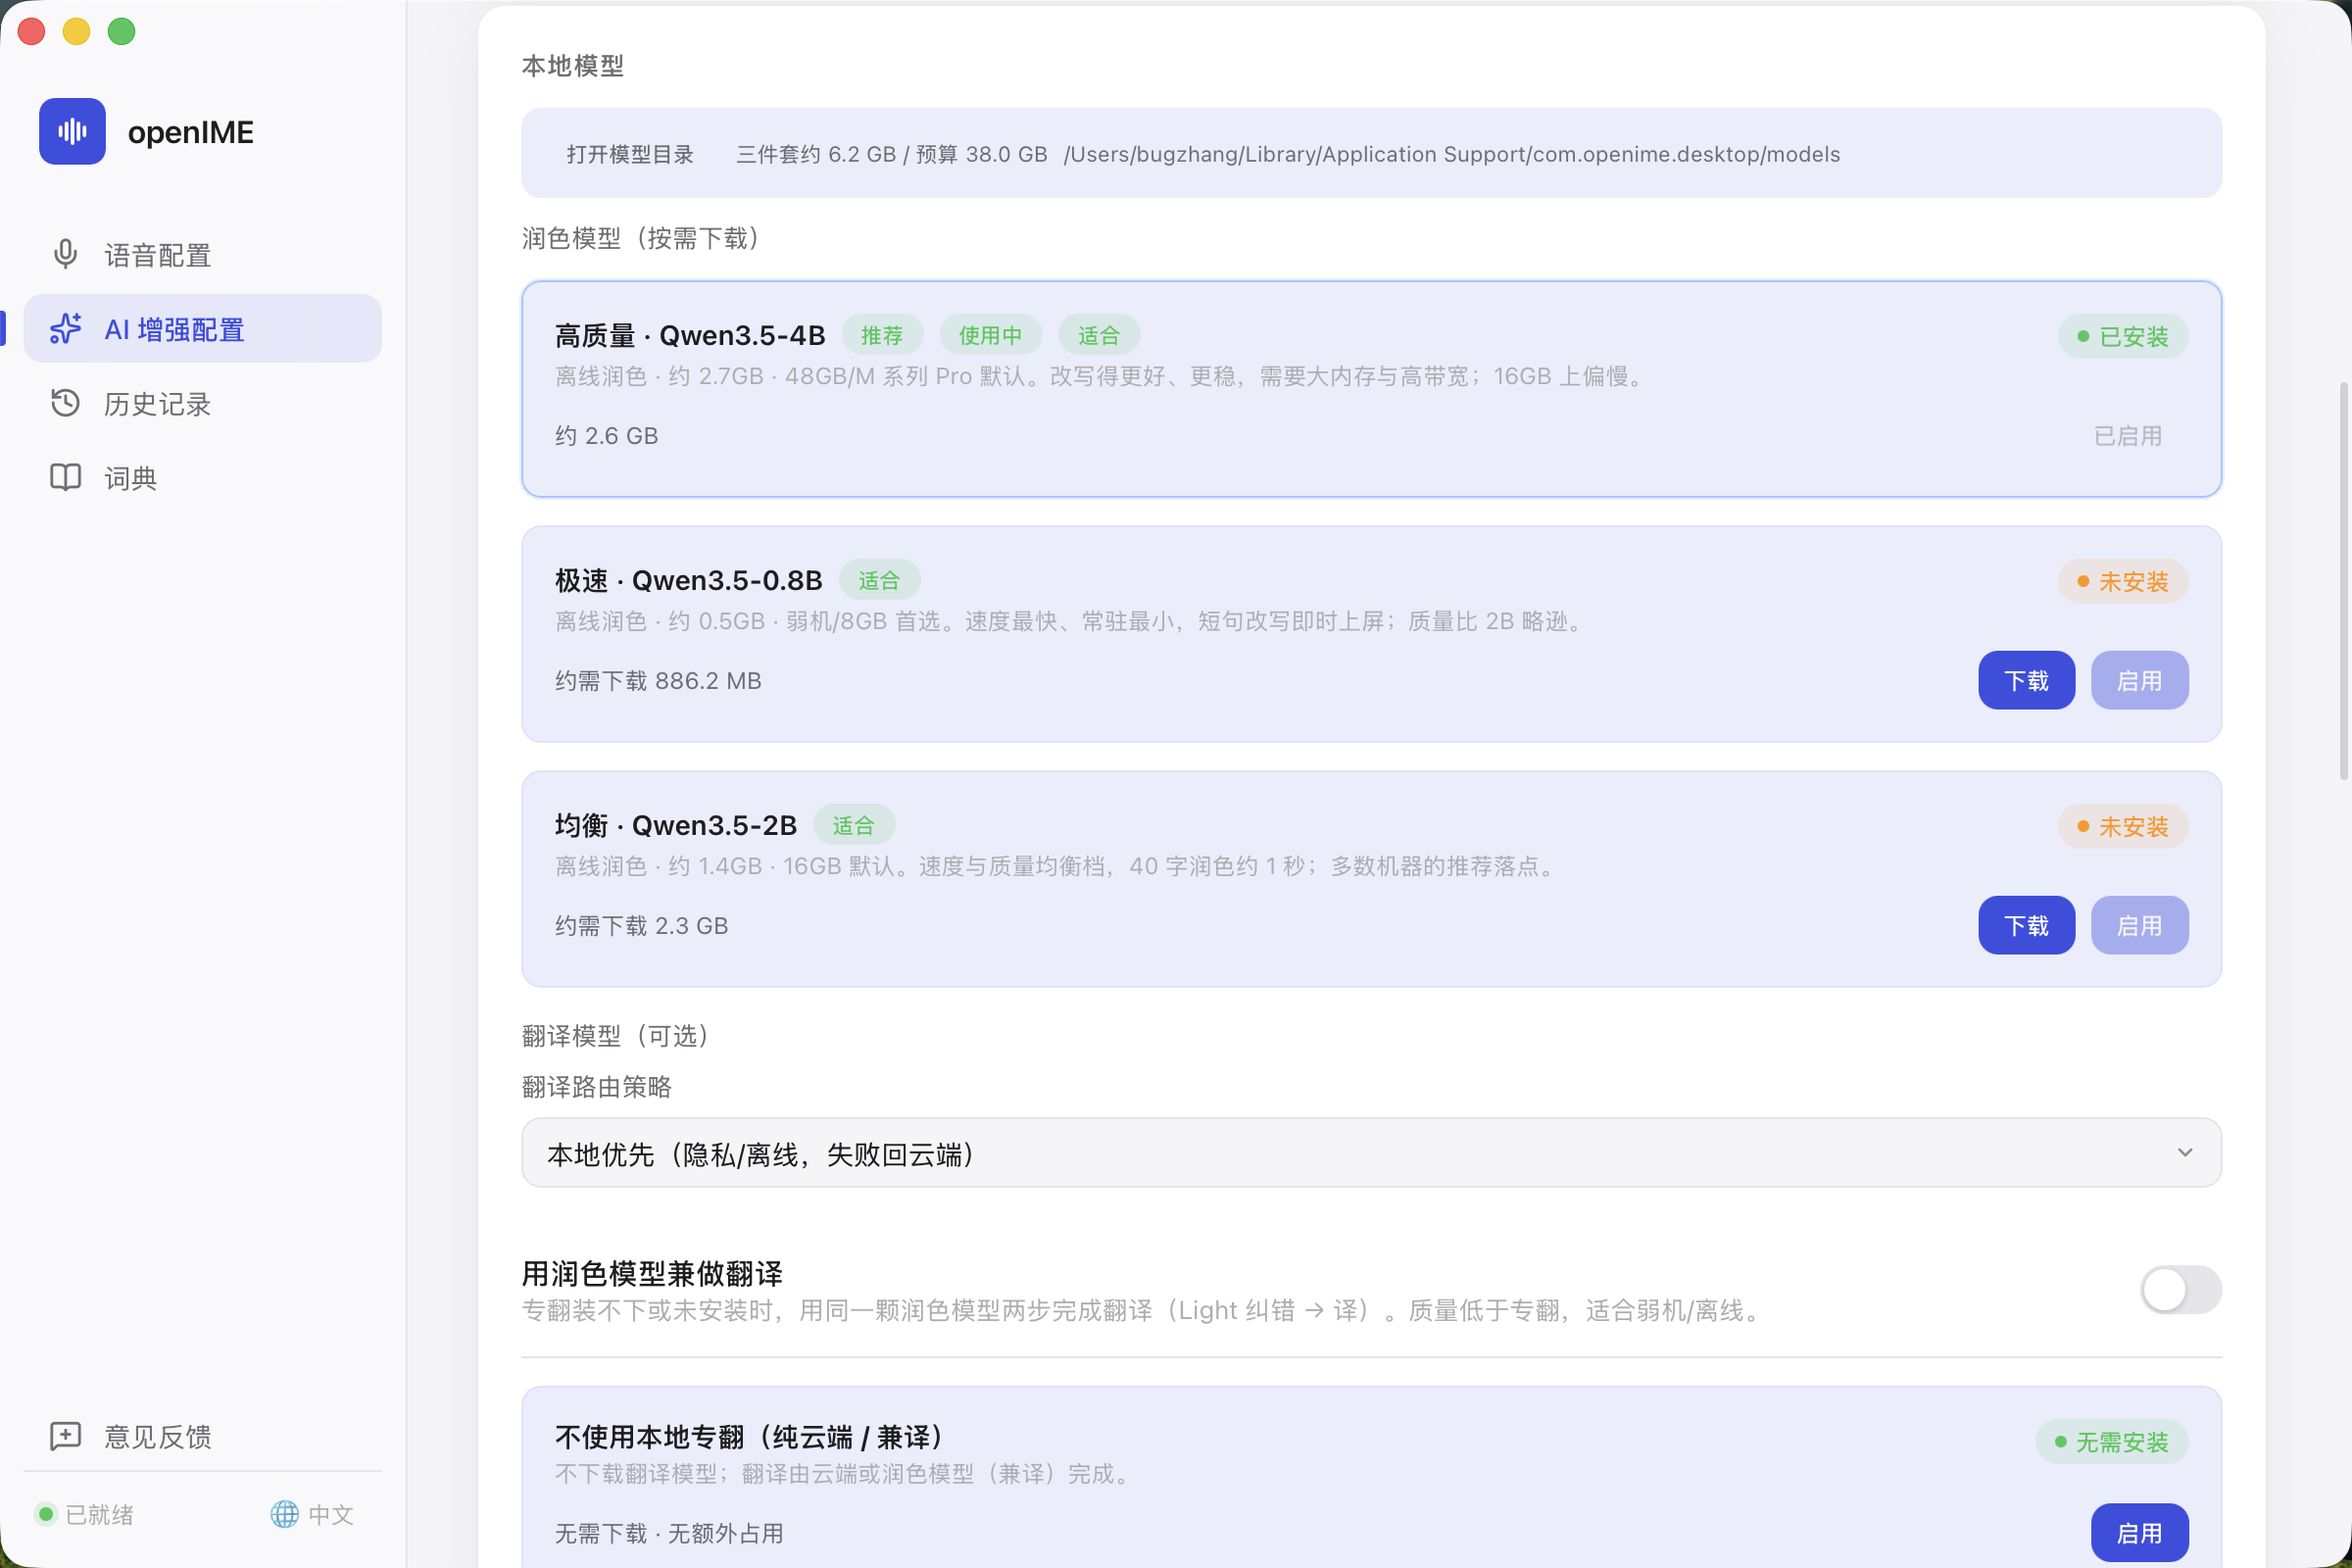
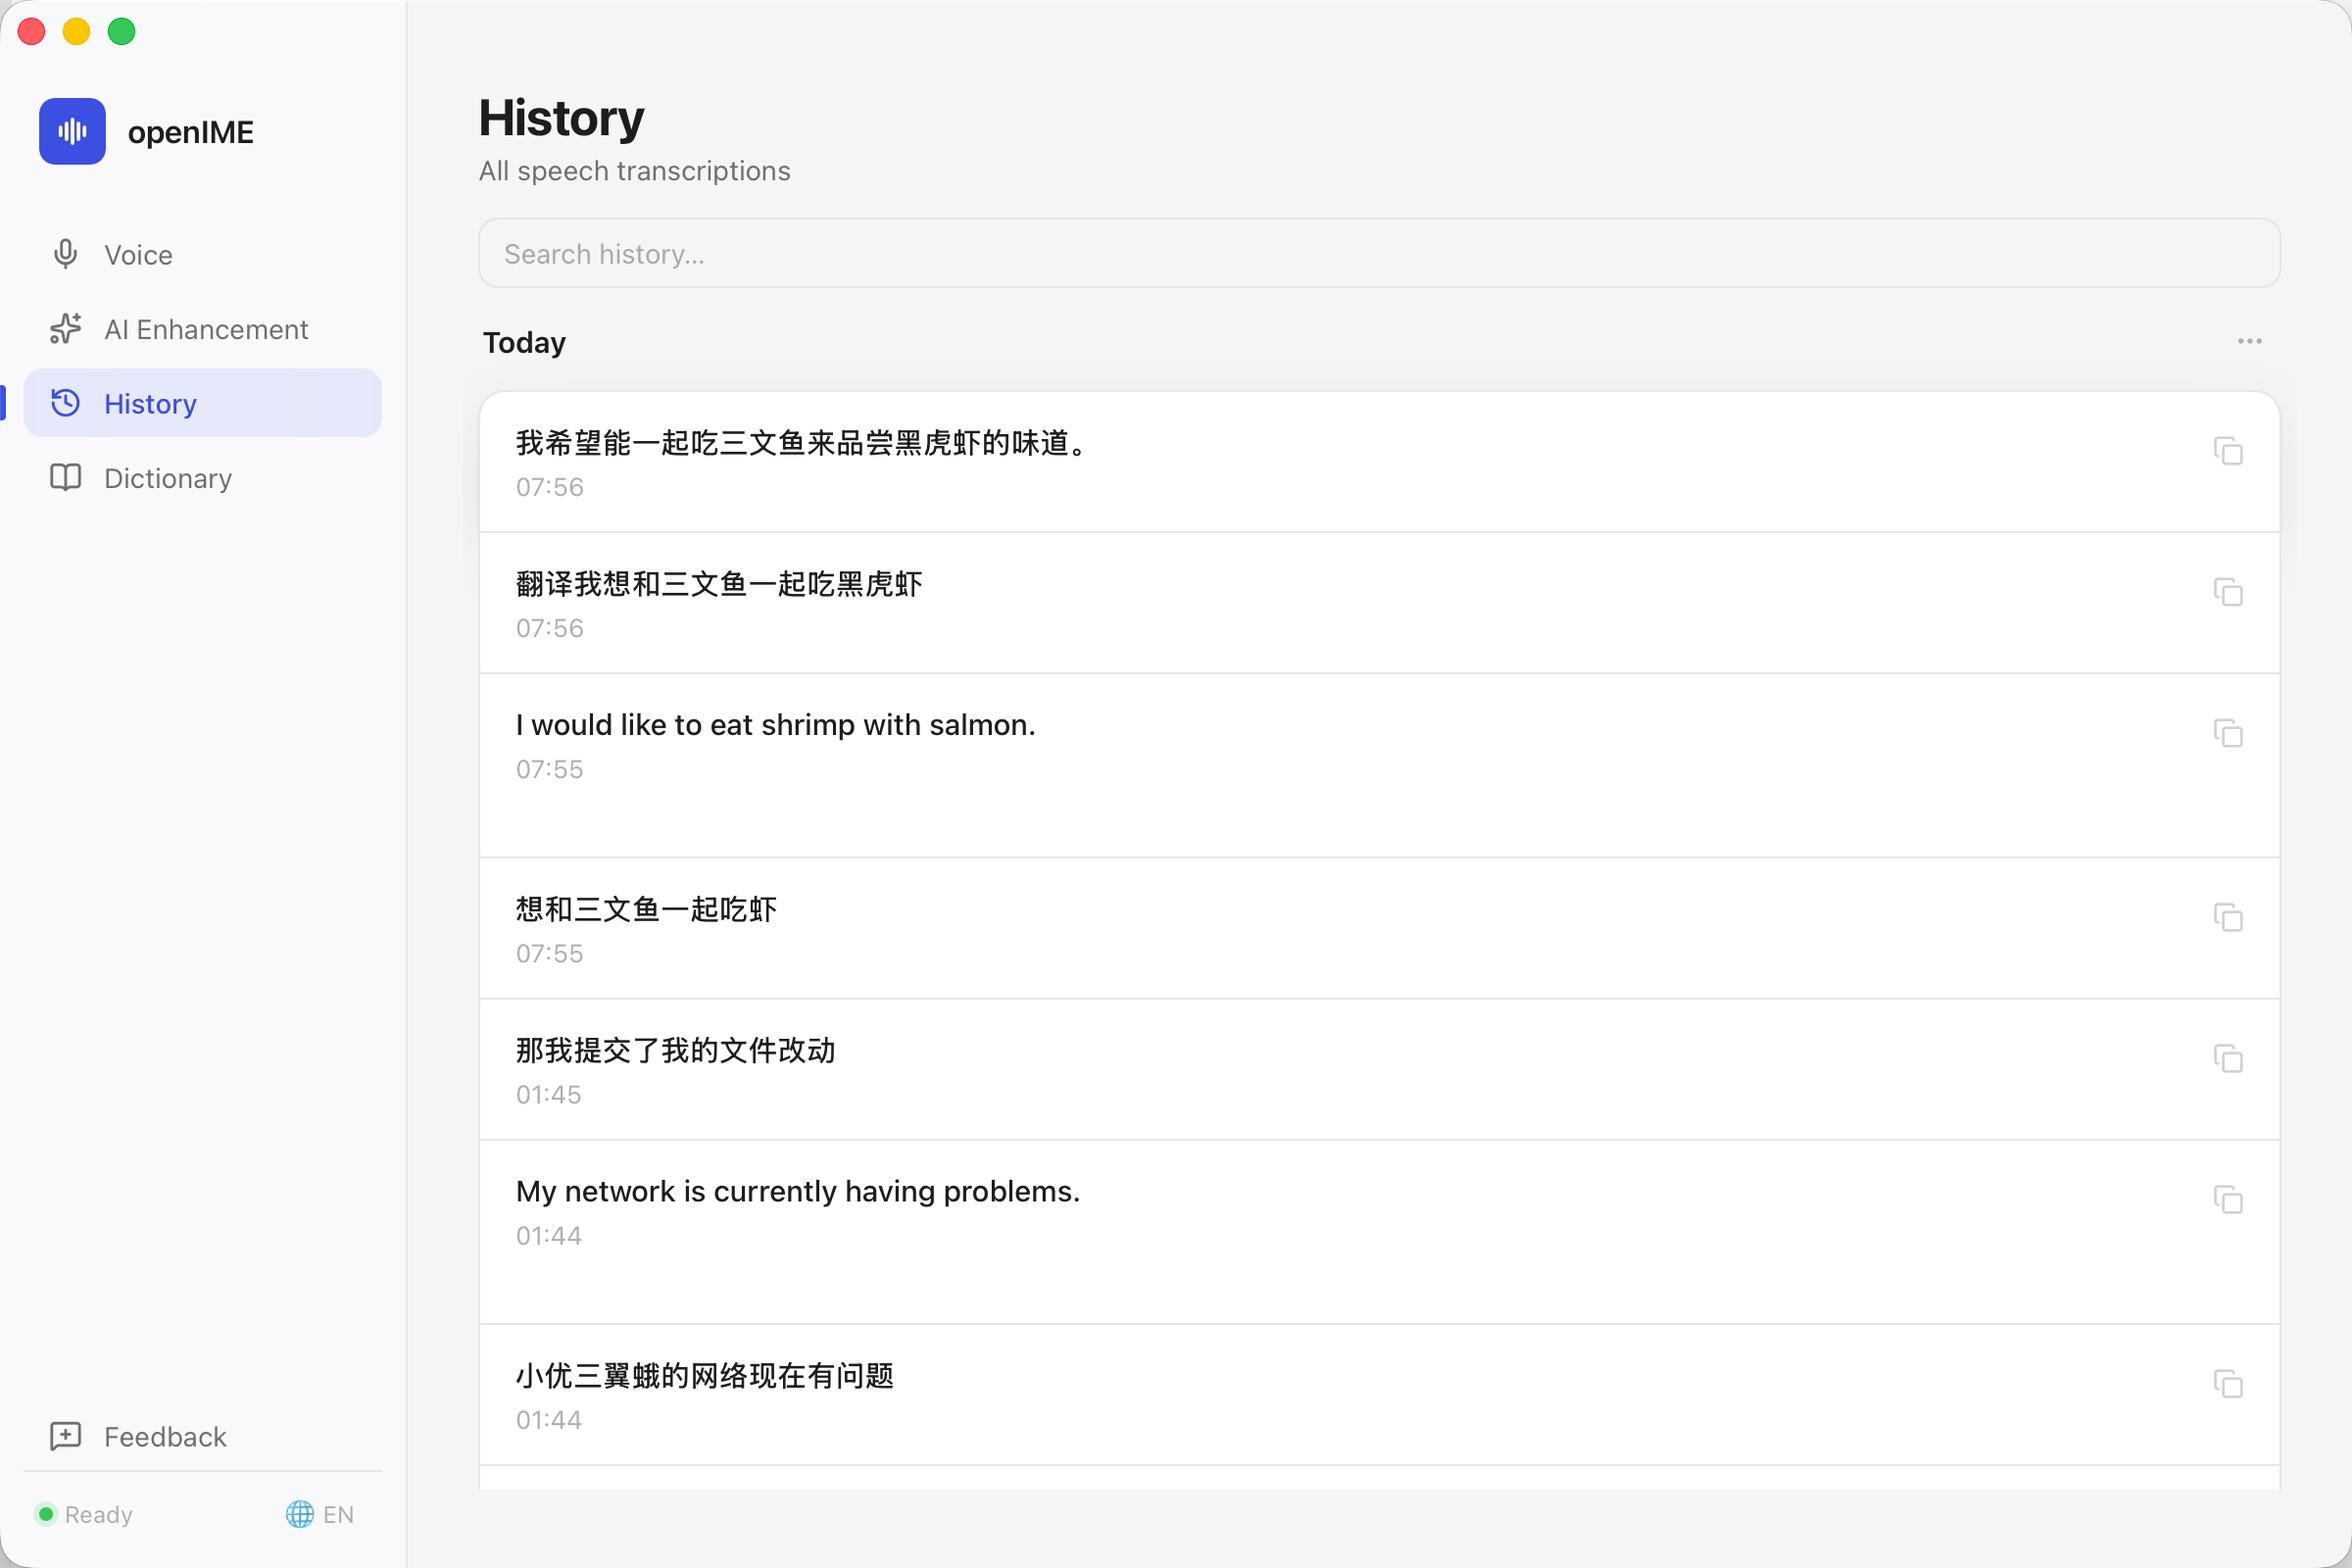
docs: 云端 LLM 通用化（去百炼）文案与截图更新
- 研究文档 / 设计文档统一为「任意 OpenAI 兼容服务」口径，
  移除百炼专属表述（qwen-turbo 示例、dashscope endpoint 等）
- 截图清理：删除 _tmp_* 临时截图与旧 en.png，README 引用更新为
  main/settings/dictionary/history 与 en-main/en-settings/en-history

diff --git a/docs/phase2-local-llm-research.md b/docs/phase2-local-llm-research.md
@@ -34,7 +34,7 @@
 | **基础润色** | 去口头禅、补标点、纠明显 ASR 错字、通顺化 | 开关 / 每次 final |
 | **人设改写** | 按 persona prompt 调整语气（正式/口语/邮件…） | 选用人设 |
 | **热词强化** | 已有 `hotwords` 表；ASR 侧 + 润色侧双重利用 | 词典维护 |
-| **云端兜底** | 本地不可用/失败/关闭时走百炼 OpenAI 兼容 API | 自动或用户强制 |
+| **云端兜底** | 本地不可用/失败/关闭时走云端 OpenAI 兼容 API | 自动或用户强制 |
 
 **原则（与用户要求一致）**：
 
@@ -72,7 +72,7 @@
 | 新一代轻量 | **Qwen3-0.6B / 1.7B** Instruct GGUF | 0.6 / 1.7B | ~0.5 / ~1.2 GB | 更新架构，生态成熟中 | Apache-2.0 | 二期后期可升默认 |
 | 质量可选 | **Qwen2.5-3B-Instruct** Q4 | 3B | ~2.0–2.2 GB | 更好 | Apache-2.0 | 设置里「高质量」 |
 | 边缘备选 | Gemma 4 E2B 等 | ~2–3B eff. | ~2 GB | 中文弱于 Qwen | 需看条款 | 不优先 |
-| 云端 | 百炼 `qwen-turbo` / `qwen-flash` 等 | — | 0 本地 | 最强 | 商业 API | 兜底 / 强制云端 |
+| 云端 | 任意 OpenAI 兼容服务（`qwen-turbo` / `gpt-4o-mini` 等） | — | 0 本地 | 最强 | 商业 API | 兜底 / 强制云端 |
 
 ### 3.2 为何默认 Qwen2.5-1.5B-Instruct
 
@@ -80,7 +80,7 @@
 2. **官方 GGUF** 齐全，llama.cpp 一等公民。  
 3. **Apache-2.0**，商业/开源产品友好。  
 4. Q4_K_M ~1GB，与现有 sherpa 模型（~227MB + ORT）在 16GB 统一内存 Mac 上可共存。  
-5. 与云端百炼同属「通义系」，本地/云端风格一致性更好（产品叙事也顺）。
+5. 同属「通义系」开源模型，本地/云端风格一致性更好（产品叙事也顺）。
 
 0.5B 作「极速模式」：延迟更低，但纠 ASR 谐音、复杂人设会明显变差，宜作为可选而非默认。
 
@@ -107,7 +107,7 @@
 **建议**：
 
 - 本地：`llama.cpp` + **GGUF Q4_K_M**，feature 门控（类似 `sherpa`），如 `llm` / `polish-local`。  
-- 云端：百炼 **OpenAI 兼容** `chat/completions`（与现有 ASR 的 Protocol A WS 分离，复用同一 api_key/workspace 即可）。  
+- 云端：**OpenAI 兼容** `chat/completions`（与 ASR 凭据完全分离，独立填写 endpoint / api_key）。  
 - 下载：扩展现有 `model_mgr` / `model_download`（SHA256、hf-mirror、进度事件），布局：
 
 ```
@@ -183,7 +183,7 @@ record_and_collect 得到 finals
 polish_enabled: bool                 // 总开关，默认 false（渐进）或 true（产品激进）
 polish_policy: PreferLocal | ...     // 默认 PreferLocal
 polish_local_model: "qwen2.5-1.5b-instruct-q4_k_m"
-polish_cloud_model: "qwen-turbo"     // 百炼 chat
+polish_cloud_model: ""              // 可选，留空时请求不带 model 字段
 active_persona_id: Option<String>
 polish_timeout_ms: u32               // 默认 800
 ```
@@ -240,7 +240,7 @@ polish_timeout_ms: u32               // 默认 800
 |---|---|
 | **P0 调研冻结** | 本文档；默认模型锁定 Qwen2.5-1.5B-Instruct Q4_K_M |
 | **P1 trait + passthrough** | `TextPolishProvider`、pipeline 挂钩、开关默认关、单测 |
-| **P2 云端 polish** | 百炼 OpenAI 兼容 chat；复用 key；超时与错误回退 |
+| **P2 云端 polish** | OpenAI 兼容 chat；独立凭据；超时与错误回退 |
 | **P3 本地 GGUF** | llama.cpp 绑定 + model_mgr 下载 + PreferLocal 路由 |
 | **P4 人设 UI** | personas CRUD + 内置 3–5 套 + 设置页 |
 | **P5 热词打通** | 润色 prompt 注入；导出 sherpa hotwords 已有能力复用 |
@@ -253,7 +253,7 @@ polish_timeout_ms: u32               // 默认 800
 1. **默认本地模型**：`Qwen2.5-1.5B-Instruct` GGUF **Q4_K_M**。  
 2. **轻量可选**：`Qwen2.5-0.5B-Instruct` Q4。  
 3. **运行时**：进程内 **llama.cpp**（feature `llm`），不用默认依赖 Ollama。  
-4. **云端**：百炼 OpenAI 兼容，`qwen-turbo` / `qwen-flash` 级。  
+4. **云端**：任意 OpenAI 兼容服务，`qwen-turbo` / `gpt-4o-mini` 级。  
 5. **策略默认**：`PreferLocal`，失败/超时回退原文或云端（可配）。  
 6. **润色时机**：仅 **final**，不碰 partial。  
 7. **下载与校验**：扩展现有 `model_download` 模式，不新造平行体系。
@@ -276,7 +276,7 @@ polish_timeout_ms: u32               // 默认 800
 - [Qwen2.5-1.5B-Instruct-GGUF](https://huggingface.co/Qwen/Qwen2.5-1.5B-Instruct-GGUF)  
 - [Qwen3 系列开源尺寸表](https://github.com/phlx0/awesome-open-weight-models)  
 - [Apple Silicon 本地模型指南](https://apxml.com/posts/best-local-llms-apple-silicon-mac)  
-- [阿里云百炼模型列表](https://help.aliyun.com/zh/model-studio/models)  
+- [阿里云通义模型列表](https://help.aliyun.com/zh/model-studio/models)  
 - 仓库内：`README.md` 二期路线；`store.rs` personas/hotwords 预留；`model_mgr.rs` 一期下载管线  
 
 ---
@@ -290,7 +290,7 @@ polish_timeout_ms: u32               // 默认 800
 | TextPolish trait / PolishMode / Router PreferLocal | ✅ |
 | AppConfig 润色字段 + 人设 seed | ✅ |
 | pipeline insert_finals_with_polish | ✅ |
-| 云端 BailianChatPolish（OpenAI 兼容） | ✅ |
+| 云端 CloudPolishProvider（OpenAI 兼容） | ✅ |
 | GGUF 下载 install_polish_model + SHA256 | ✅ |
 | LocalGgufPolish + feature `llm`（llama-cpp-2） | ✅ 代码就绪；**需 cmake** 才能默认编进 |
 | 设置页「AI 润色」开关/策略/下载/人设 | ✅ |

diff --git a/docs/p1-design.md b/docs/p1-design.md
@@ -300,7 +300,7 @@ pub enum InsertStrategy {
 **保存校验（`save_app_config` 新行为，不是现状）：**
 
 1. `active()` 索引合法（已有）。
-2. **每一个非空** `providers[i].base_url` 以及非空 `polish_cloud_endpoint` 走 `validate_endpoint`（百炼见 R3：只验归一化 URL）。**不**因为缺 `api_key` 而拒绝整单保存（用户可能先填地址再填 key；今日前端 `validateProvider` 在云端引擎上会卡 key——PR1 把「URL 校验」放进 save，**不把** `ProviderConfig::validate` 的 key 完备性检查并进 save）。
+2. **每一个非空** `providers[i].base_url` 走 `validate_endpoint`（百炼见 R3：只验归一化 URL）。**不**因为缺 `api_key` 而拒绝整单保存（用户可能先填地址再填 key；PR1 把「URL 校验」放进 save，**不把** `ProviderConfig::validate` 的 key 完备性检查并进 save）。云端 LLM 的 `polish_cloud_endpoint` / `polish_cloud_api_key` 则经 `AppConfig::check_cloud_llm` 做**必填成对校验**：两者全空 = 未启用云端（合法），只填其一 → 拒绝保存。
 3. 热键两两不等（PR4 起：含翻译 / QA / 风格 / 录音）。无法 `parse_shortcut` 的非空热键 → 保存失败。
 4. 任一项失败 → `Err(String)`，**不写 DB、不改内存 config**。
 
@@ -341,7 +341,7 @@ pub enum InsertStrategy {
 | A3.1 | 润色 endpoint 填 `http://169.254.169.254/` 保存 | 失败，文案含元数据或 link-local；刷新后仍是旧值 |
 | A3.2 | ASR **OpenAI 兼容**填 `http://192.168.1.20:8080/v1` 保存 | 成功 |
 | A3.3 | **润色或 OpenAI REST** 填 `http://openai.com/v1` 保存 | 失败，文案含「https」 |
-| A3.4 | 润色填 `https://dashscope.aliyuncs.com/compatible-mode/v1` | 成功 |
+| A3.4 | 润色填 `https://api.openai.com/v1` | 成功 |
 | A3.5 | 填 `http://localhost:11434/v1` | 成功 |
 | A3.6 | 填 `http://100.64.1.1:80` | 失败（CGNAT） |
 | A3.7 | 手工把 DB 里写成元数据 URL 后启动 | load 清空该字段；日志 warn |

diff --git a/docs/competitive-research.md b/docs/competitive-research.md
@@ -12,7 +12,7 @@
 >
 > **📌 落地状态（2026-08-13 更新）**：本文写于 2026-08-12，此后 openIME 二期已实现其中 **A1 / B1 / B2 / B3 / B4 / B5 / B6 / C1 / D1 / D2 / D3 / F1 / F4 / H2** 共 14 项（见 [README](../README.md) 路线图 ✅ 段）；**未实现**的需求已抽到 [roadmap.md](./roadmap.md)。下文 §2 / §3 的「建议清单 / 优先级」保留作历史档案，**当前状态以本段为准**。
 >
-> openIME 当前能力：Tauri + Rust（`voice-core`）+ React，macOS 优先；本地 sherpa-onnx（SenseVoice / FireRedASR / FunASR-Nano / Zipformer）+ 阿里云百炼流式 ASR；**enigo 逐字插入 + 百炼流式逐字上屏**；SQLite 历史 + 搜索；Fn 全局快捷键（Toggle / Hold PTT）；悬浮 HUD；AI 润色三档（Off / Light / Heavy，L0 规则纠错含 ITN / 热词同音模糊音 / 繁简 / 去句末标点 / 按 app 标点 + L2 LLM，本地 GGUF Qwen2.5-1.5B / 百炼云端三协议）；CSV 热词 + 风格包；选区注入；文件转录 SRT；日记导出；凭据钥匙串；本机性能 → 模型适配标签；界面 i18n（中 / 英）。
+> openIME 当前能力：Tauri + Rust（`voice-core`）+ React，macOS 优先；本地 sherpa-onnx（SenseVoice / FireRedASR / FunASR-Nano / Zipformer）+ 阿里云百炼流式 ASR；**enigo 逐字插入 + 百炼流式逐字上屏**；SQLite 历史 + 搜索；Fn 全局快捷键（Toggle / Hold PTT）；悬浮 HUD；AI 润色三档（Off / Light / Heavy，L0 规则纠错含 ITN / 热词同音模糊音 / 繁简 / 去句末标点 / 按 app 标点 + L2 LLM，本地 GGUF Qwen2.5-1.5B / 云端 LLM 三协议）；CSV 热词 + 风格包；选区注入；文件转录 SRT；日记导出；凭据钥匙串；本机性能 → 模型适配标签；界面 i18n（中 / 英）。
 
 ---
 

diff --git a/docs/local-translate-model-research.md b/docs/local-translate-model-research.md
@@ -307,7 +307,7 @@ TranslatePolicy
 | 先润色再译 | 哨兵一次调用 | 基本失败 | 两步本地，质量取决于润色 |
 | 无网 | 失败回原文 | 有 | **这才是做本地翻译的理由** |
 
-不要对外承诺「比肩 DeepL / 百炼」。对外一句话：
+不要对外承诺「比肩 DeepL / 商业云端翻译」。对外一句话：
 
 > 没网也能把刚说的话译到光标处；有网默认仍走云端，译得更稳。
 

diff --git a/docs/README.md b/docs/README.md
@@ -23,4 +23,4 @@
 
 ## 截图
 
-`docs/screenshots/` — `main.png` / `en.png` / `dictionary.png` / `history.png`
+`docs/screenshots/` — `main.png`（中文主界面）/ `settings.png`（中文设置）/ `dictionary.png`（词典）/ `history.png`（历史记录）/ `en-main.png`（英文主界面）/ `en-settings.png`（英文设置）/ `en-history.png`（英文历史）
